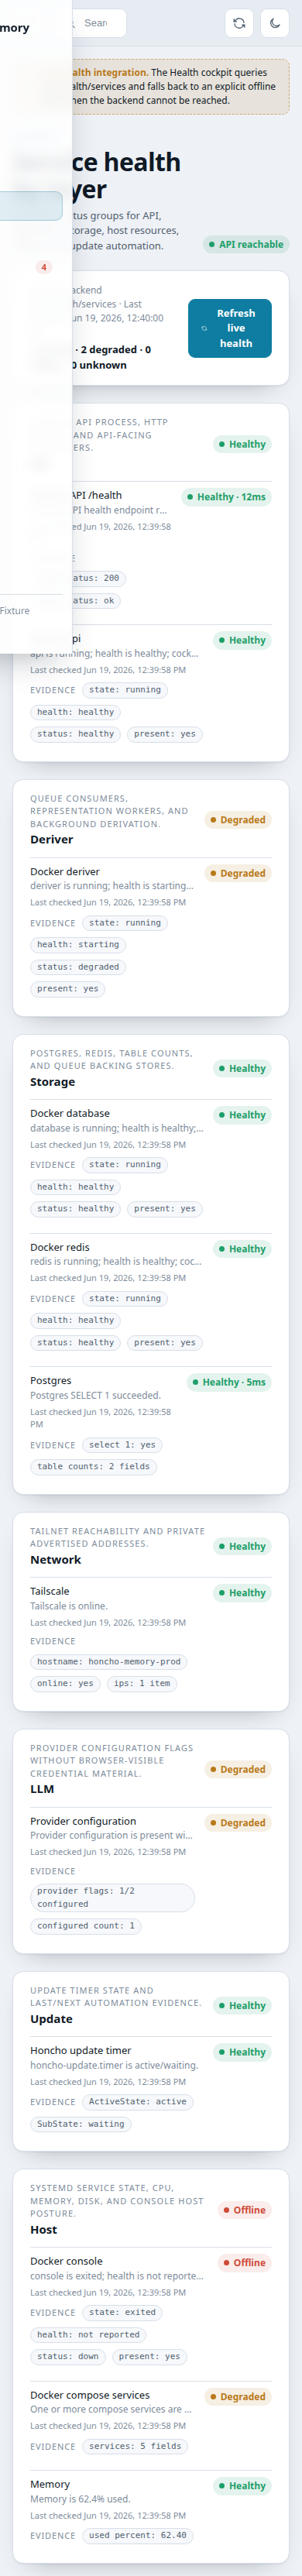
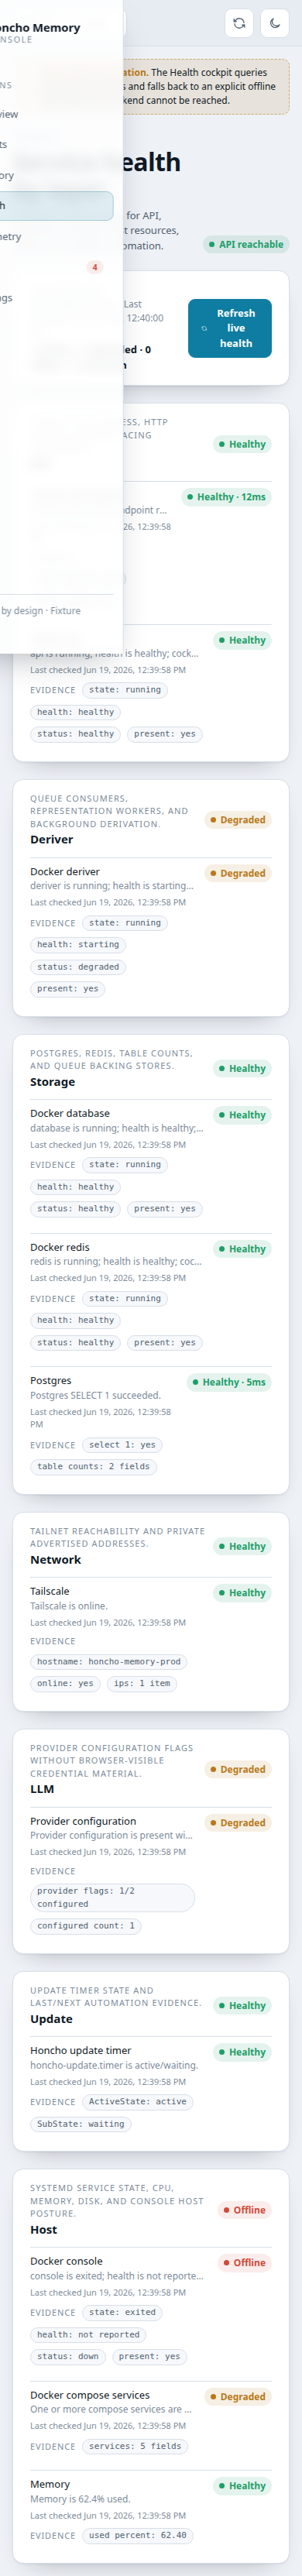
chore(console): close T07 evidence hygiene

Changed region(s): [[0.1846, 0.0, 0.4308, 0.2787], [0.0, 0.0, 0.0308, 0.0929], [0.0615, 0.0, 0.0923, 0.031]]

diff --git a/factory/projects/honcho-memory-console/QA_REPORT.md b/factory/projects/honcho-memory-console/QA_REPORT.md
@@ -139,7 +139,7 @@ Waivers / pending by phase contract:
 ## T07 Health Cockpit UX and Integration Evidence
 
 Scope: `honcho-memory-console-t07-health-cockpit-ux-and-integration`.
-Evidence updated: `2026-06-19T08:49:20-04:00`.
+Evidence updated: `2026-06-19T09:13:37-04:00`.
 
 Local checks run from `/home/jean/Projects/.worktrees/honcho-memory-console/inc-080-t07-health-cockpit-ux-and-integr` and `/home/jean/Projects/.worktrees/honcho-memory-console/inc-080-t07-health-cockpit-ux-and-integr/console/frontend`:
 
@@ -155,7 +155,7 @@ Local checks run from `/home/jean/Projects/.worktrees/honcho-memory-console/inc-
 UI/browser evidence paths:
 
[3 lines of base64/hex data omitted]
 - Playwright smoke source: `console/frontend/smoke/health-cockpit.spec.ts`.
 
 Coverage notes:
@@ -169,6 +169,32 @@ Coverage notes:
 Waivers / pending by phase contract:
 
 - T07 is local implementation plus browser smoke for the Health cockpit. Public sandbox URL, sandbox deploy path, docker compose deployment evidence, auth-bound deployed browser QA, and post-deploy browser/API verification remain pending T10/T11/T11B. No delivery/critical-readiness gate should be marked passed from this local T07 evidence alone.
+
+## T07 Rework Closure Evidence - Commit/Push Hygiene
+
+Scope: `honcho-memory-console-t07-health-cockpit-ux-and-integration` rework after increment integration rejected the prior terminal status because the worktree still had uncommitted screenshot artifacts.
+Evidence updated: `2026-06-19T09:13:37-04:00`.
+
+Local checks rerun from `/home/jean/Projects/.worktrees/honcho-memory-console/inc-080-t07-health-cockpit-ux-and-integr` and `/home/jean/Projects/.worktrees/honcho-memory-console/inc-080-t07-health-cockpit-ux-and-integr/console/frontend`:
+
+- `npm test` -> frontend contract suites `8 passed`, `0 failed`, duration `134.090902ms`.
+- `npm run build` -> TypeScript + Vite production build passed; `23 modules transformed`; generated `dist/index.html`, CSS asset, and JS asset; built in `201ms`.
+- `npm run smoke -- smoke/health-cockpit.spec.ts` -> Playwright/Chrome Health cockpit smoke passed `1 passed (7.7s)` and refreshed T07 desktop/mobile evidence screenshots.
+- `uv run --frozen pytest console/backend/tests/test_local_services_health.py -q` -> `4 passed in 5.03s`.
+- `uv run --frozen pytest console/backend/tests -q` -> `23 passed in 5.14s`.
+- `git diff --check` -> exit `0`, no whitespace errors.
+- Frontend protected-value scan over `console/frontend/src` for `Bearer|rawToken|factory-generated|Authorization|eyJ...|api_key|secret|password|token` -> `total_count: 0`.
+- Frontend smoke protected-value scan found only the explicit negative assertion in `console/frontend/smoke/health-cockpit.spec.ts` line 144; no secret values are embedded.
+
+Updated UI/browser evidence paths:
+
[2 lines of base64/hex data omitted]
+
+Closure note:
+
+- Unrelated T05 shell screenshot side effects created by the earlier full `npm run smoke` were restored to the previously committed T05 evidence so this rework remains scoped to T07.
+- This rework records only local implementation/browser-smoke evidence and branch hygiene. Sandbox/deploy/delivery evidence remains pending T10/T11/T11B by the canonical project contract.
 
 ## Planned QA Evidence
 